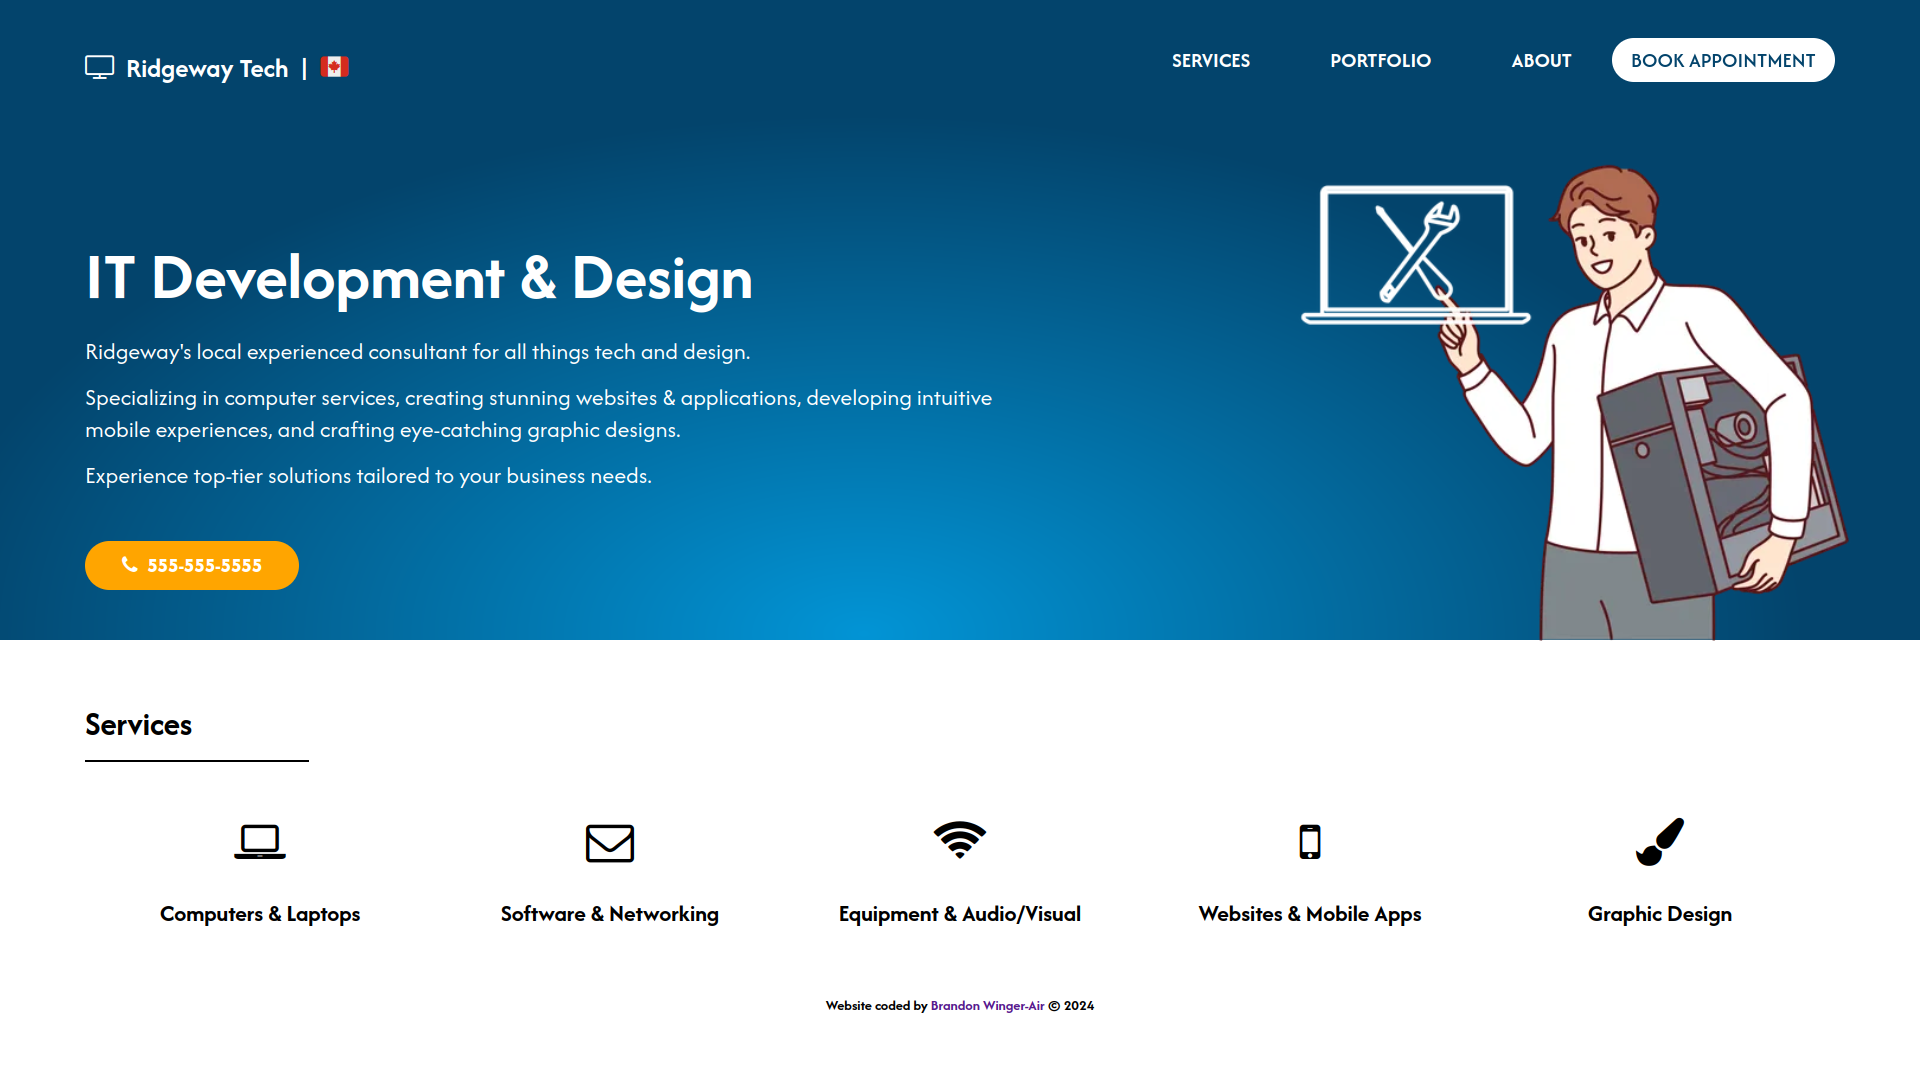
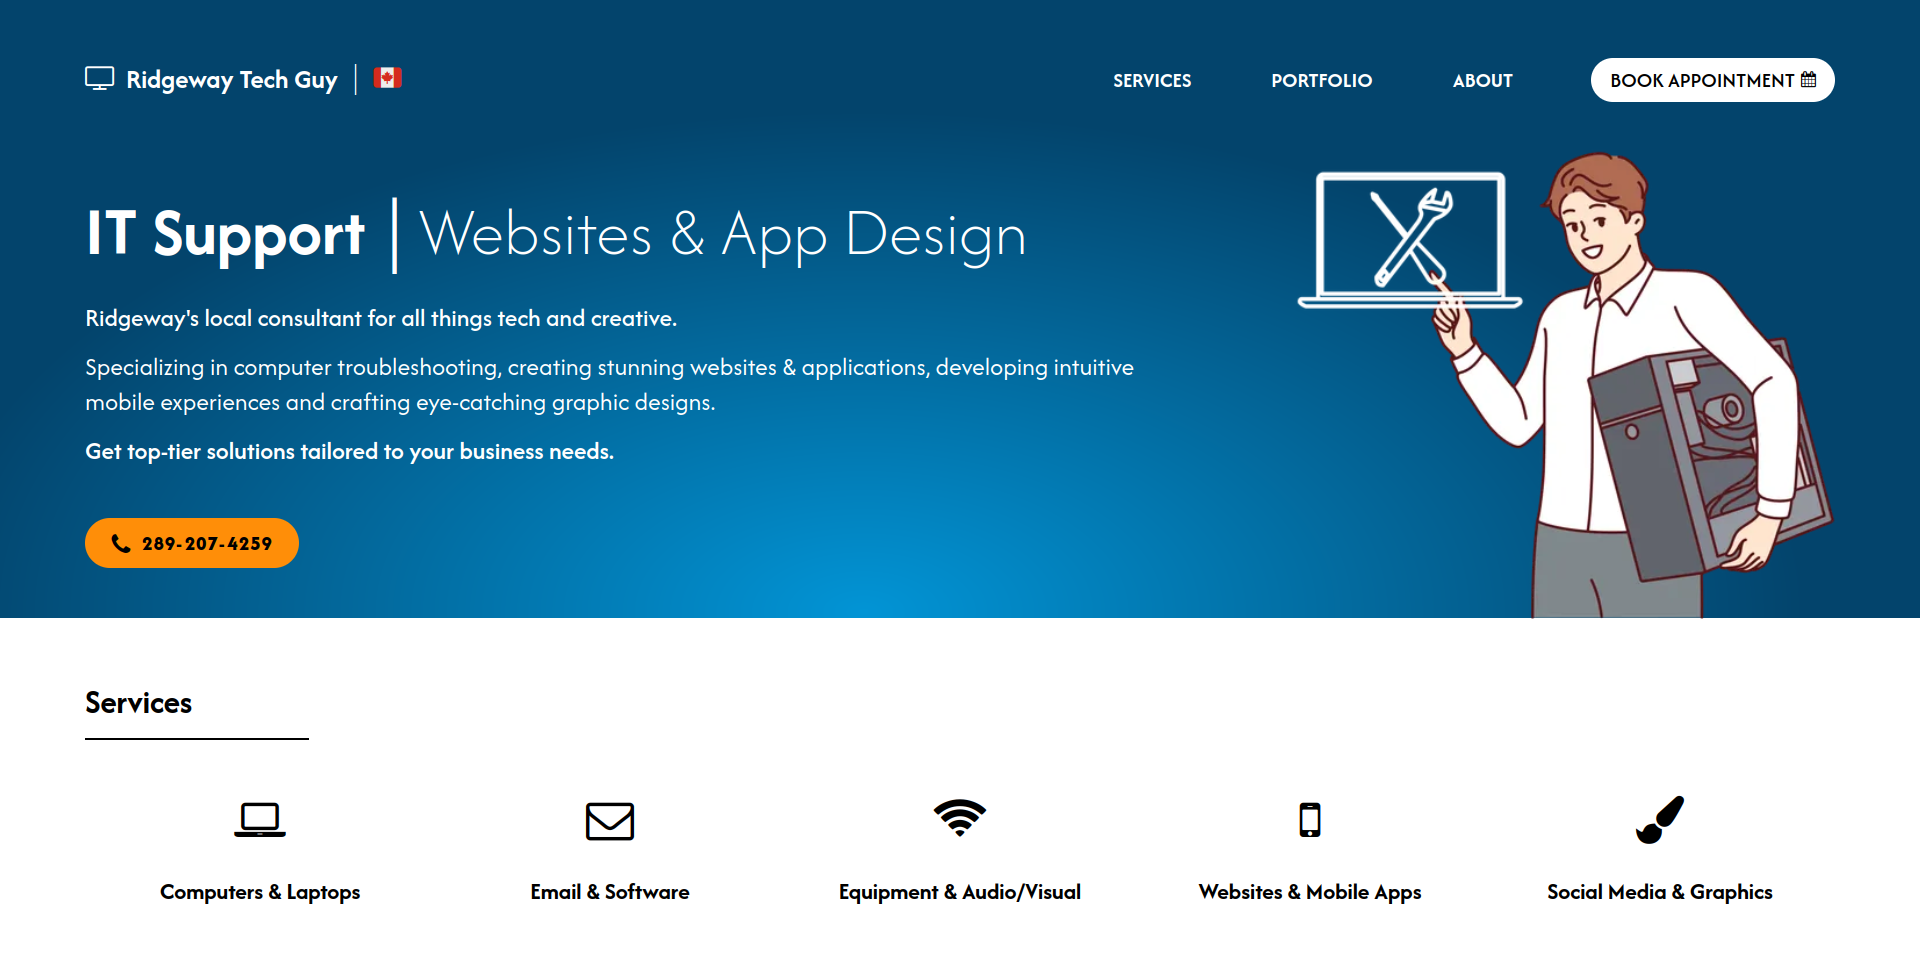
site content, styling and update screenshot

diff --git a/style.css b/style.css
@@ -13,15 +13,6 @@ body {
     margin: 0;
 }
 
-h1 {
-    margin: 0;
-    font-size: 1.71rem;
-}
-
-h1 i {
-    margin-right: 4px;
-}
-
 a {
     text-decoration: none;
 }
@@ -31,20 +22,38 @@ header {
     background-image: radial-gradient(49% 81% at 45% 99%, #0294d5FF 0%, #03446CFF 100%);
     position: relative;
     color: #fff;
-    padding: 0 var(--page-padding);
-    height: 40rem;
+    padding: 58px var(--page-padding) 0;
+    height: 35rem;
+}
+
+h1 {
+    margin: 0;
+    font-size: 1.71rem;
+    position: relative;
+    top: -8px;
+}
+
+h1 i {
+    margin-right: 4px;
+}
+
+h1 span {
+    font-size: 2.35rem;
+    font-weight: 200;
+    position: relative;
+    bottom: -0.1rem;
 }
 
 nav {
     display: flex;
     justify-content: space-between;
     height: 2rem;
-    padding-top: 50px;
 }
 
 .menu {
     display: flex;
     align-items: flex-end;
+    padding-top: 44px;
 }
 
 .menu ul {
@@ -66,61 +75,97 @@ nav {
     display: inline-block;
 }
 
-.menu div {
+.menu-btn {
     height: calc(var(--menu-height) / 2);
     background-color: white;
     display: flex;
     align-items: center;
     border-radius: 25px;
     padding: .7rem;
+    margin-left: 38px;
 }
 
-.menu div > a {
-    background: #03446CFF;
+.menu-btn a {
     font-weight: 500;
-    -webkit-text-fill-color: transparent;
-    -webkit-background-clip: text;
+    color: #000;
     padding: 0.5rem;
+}
+
+.menu-btn i {
+    font-size: 16px;
+    margin-left: 0.1rem;
+    position: relative;
+    bottom: 0.1rem;
 }
 
 /* Hero Section */
 .hero-section {
     position: absolute;
     bottom: 50px;
-    width: 50vw;
+    width: 55vw;
 }
 
 .hero-section h2 {
-    font-size: 4.2rem;
+    font-size: 4.3rem;
     margin: 0;
+    display: inline-block;
+}
+
+.pipe {
+    font-size: 6rem;
+    font-weight: 300;
+    position: relative;
+    bottom: -0.5rem;
+    margin-left: 0.6rem;
+    margin-right: 0.3rem;
+}
+
+.hero-section h2:last-of-type {
+    font-weight: 200;
 }
 
 .hero-section p {
-    font-size: 1.5rem;
+    font-size: 1.6rem;
     margin: 14px 0;
 }
 
+.hero-section p:first-of-type {
+    font-weight: 500;
+}
+
+.hero-section p:last-of-type {
+    font-weight: 600;
+}
+
 .hero-section a {
-    background: orange;
+    background: #FF8E08;
     border-radius: 25px;
     display: block;
     width: 12rem;
     text-align: center;
-    color: #fff;
+    color: #000;
     font-weight: 800;
     font-size: 1.25rem;
+    letter-spacing: 1px;
     padding: 0.7rem;
     margin-top: 50px;
 }
 
+.hero-section a span {
+    margin-right: 2px;
+}
+
 .hero-section i {
+    font-size: 1.5rem;
     margin-right: 0.35rem;
+    position: relative;
+    bottom: -3px;
 }
 
 .hero-image {
-    width: 50rem;
+    width: 49rem;
     position: absolute;
-    right: 0;
+    right: 1rem;
     bottom: -1px;
 }
 
@@ -159,5 +204,7 @@ h4 {
 
 footer {
     text-align: center;
-    font-size: 22px;
+    font-size: 1.8rem;
+    border-top: 2px solid #212121;
+    margin-top: 150px;
 }

diff --git a/index.html b/index.html
@@ -11,7 +11,7 @@
 <body>
     <header>
         <nav>
-            <h1><i class="fa fa-television"></i> Ridgeway Tech &nbsp;| &nbsp;🇨🇦</h1>
+            <h1><i class="fa fa-television"></i> Ridgeway Tech Guy &nbsp;<span>|</span> &nbsp;🇨🇦</h1>
 
             <div class="menu">
                 <ul>
@@ -26,30 +26,30 @@
                     </li>
                 </ul>
     
-                <div>
-                    <a href="#!">
-                        Book Appointment
+                <div class="menu-btn">
+                    <a href="mailto:brandon.air.web@gmail.com">
+                        Book Appointment <i class="fa fa-calendar"></i>
                     </a>
                 </div>
             </div>
         </nav>
 
         <section class="hero-section">
-            <h2>IT Development & Design</h2>
+            <h2>IT Support</h2> <span class="pipe">|</span> <h2>Websites & App Design</h2>
 
             <p>
-                Ridgeway's local experienced consultant for all things tech and design.
+                Ridgeway's local consultant for all things tech and creative.
             </p>
 
             <p>
-                Specializing in computer services, creating stunning websites & applications, developing intuitive mobile experiences, and crafting eye-catching graphic designs.
+                Specializing in computer troubleshooting, creating stunning websites & applications, developing intuitive mobile experiences and crafting eye-catching graphic designs.
             </p>
 
             <p>
-                Experience top-tier solutions tailored to your business needs.
+                Get top-tier solutions tailored to your business needs.
             </p>
 
-            <a href="#!"><i class="fa fa-phone"></i> 555-555-5555</a>
+            <a href="tel:289-207-4259"><i class="fa fa-phone"></i> 289<span>-</span>207<span>-</span>4259</a>
         </section>
 
         <img 
@@ -77,7 +77,7 @@
 
             <div>
                 <i class="fa fa-envelope-o"></i>
-                <h4>Software & Networking</h4>
+                <h4>Email & Software</h4>
                 <p>
                     
                 </p>
@@ -101,7 +101,7 @@
 
             <div>
                 <i class="fa fa-paint-brush"></i>
-                <h4>Graphic Design</h4>
+                <h4>Social Media & Graphics</h4>
                 <p>
                     
                 </p>

diff --git a/README.md b/README.md
@@ -1,0 +1,3 @@
+[View Site](https://brandonwingerair.github.io/local-tech-services-website/)
+
+![Progress Screenshot #2](https://raw.githubusercontent.com/BrandonWingerAir/local-tech-services-website/refs/heads/main/screenshot.png)
